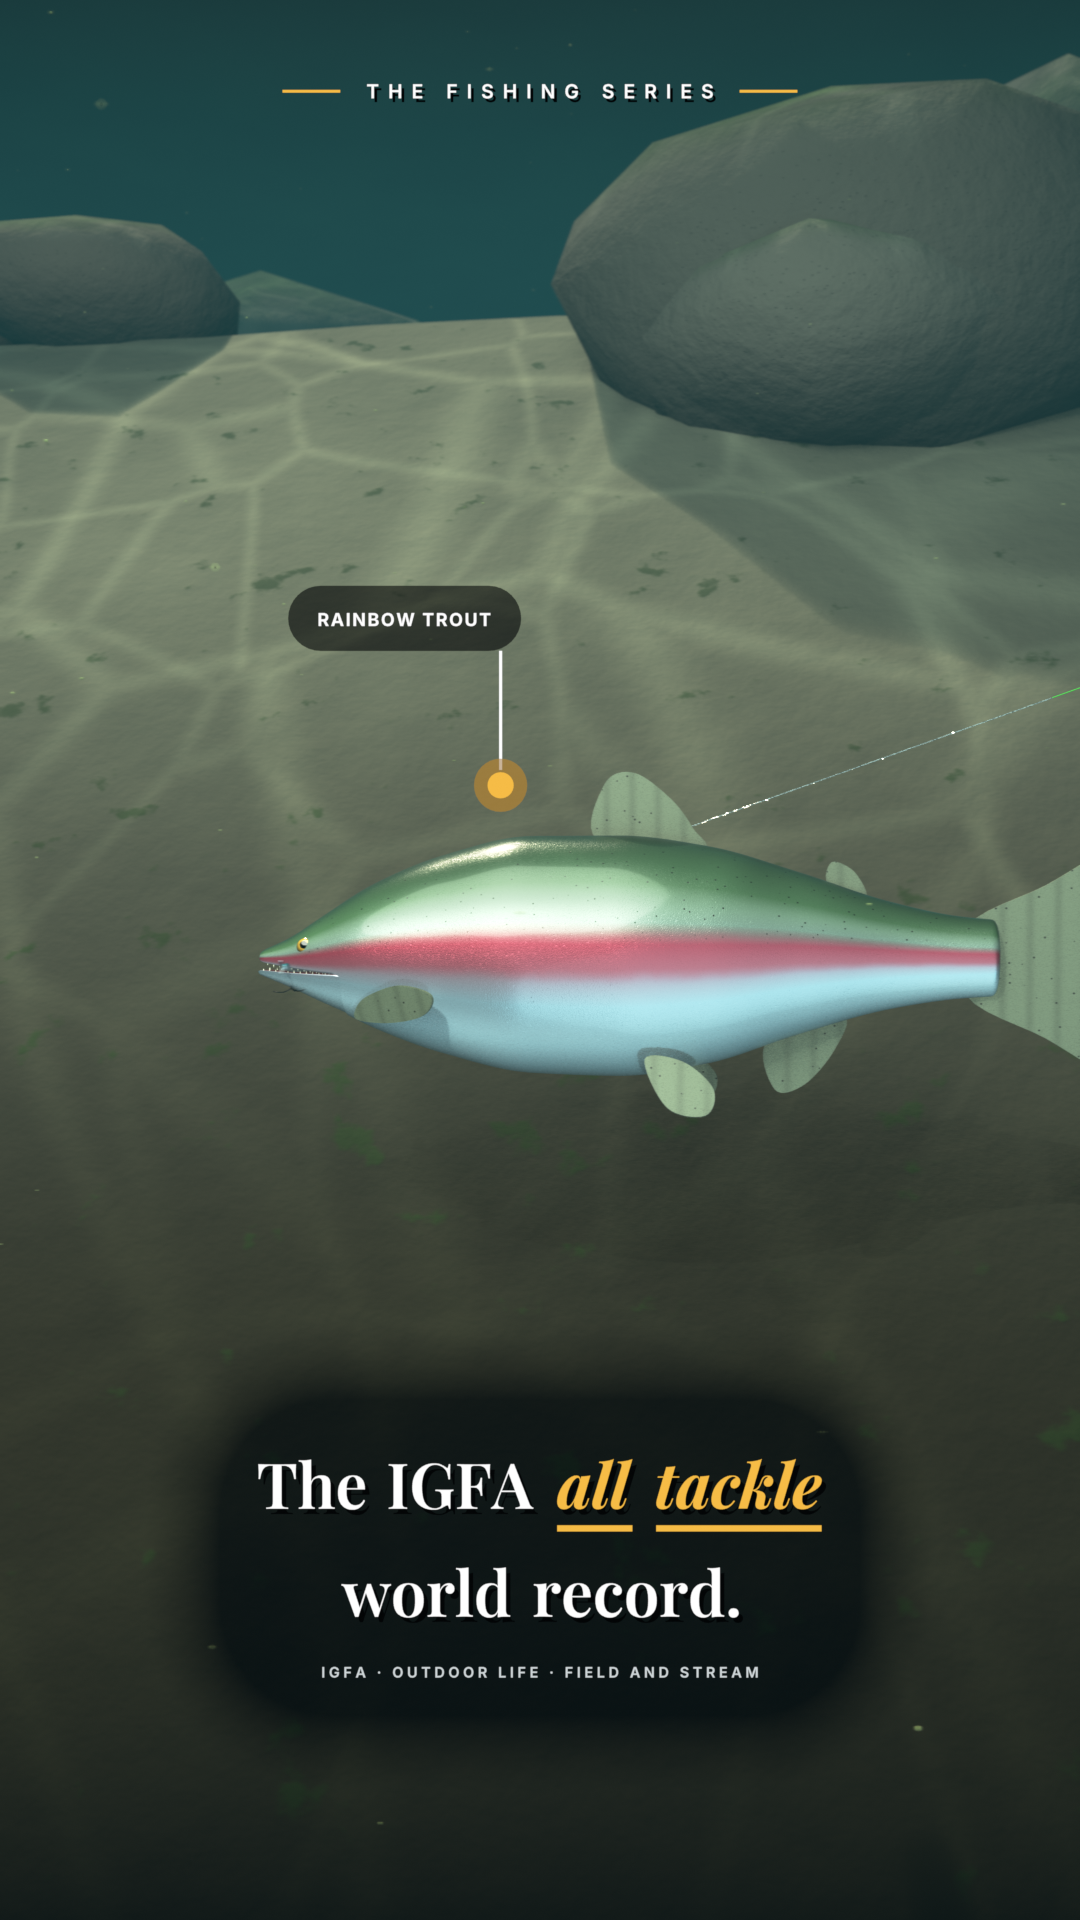
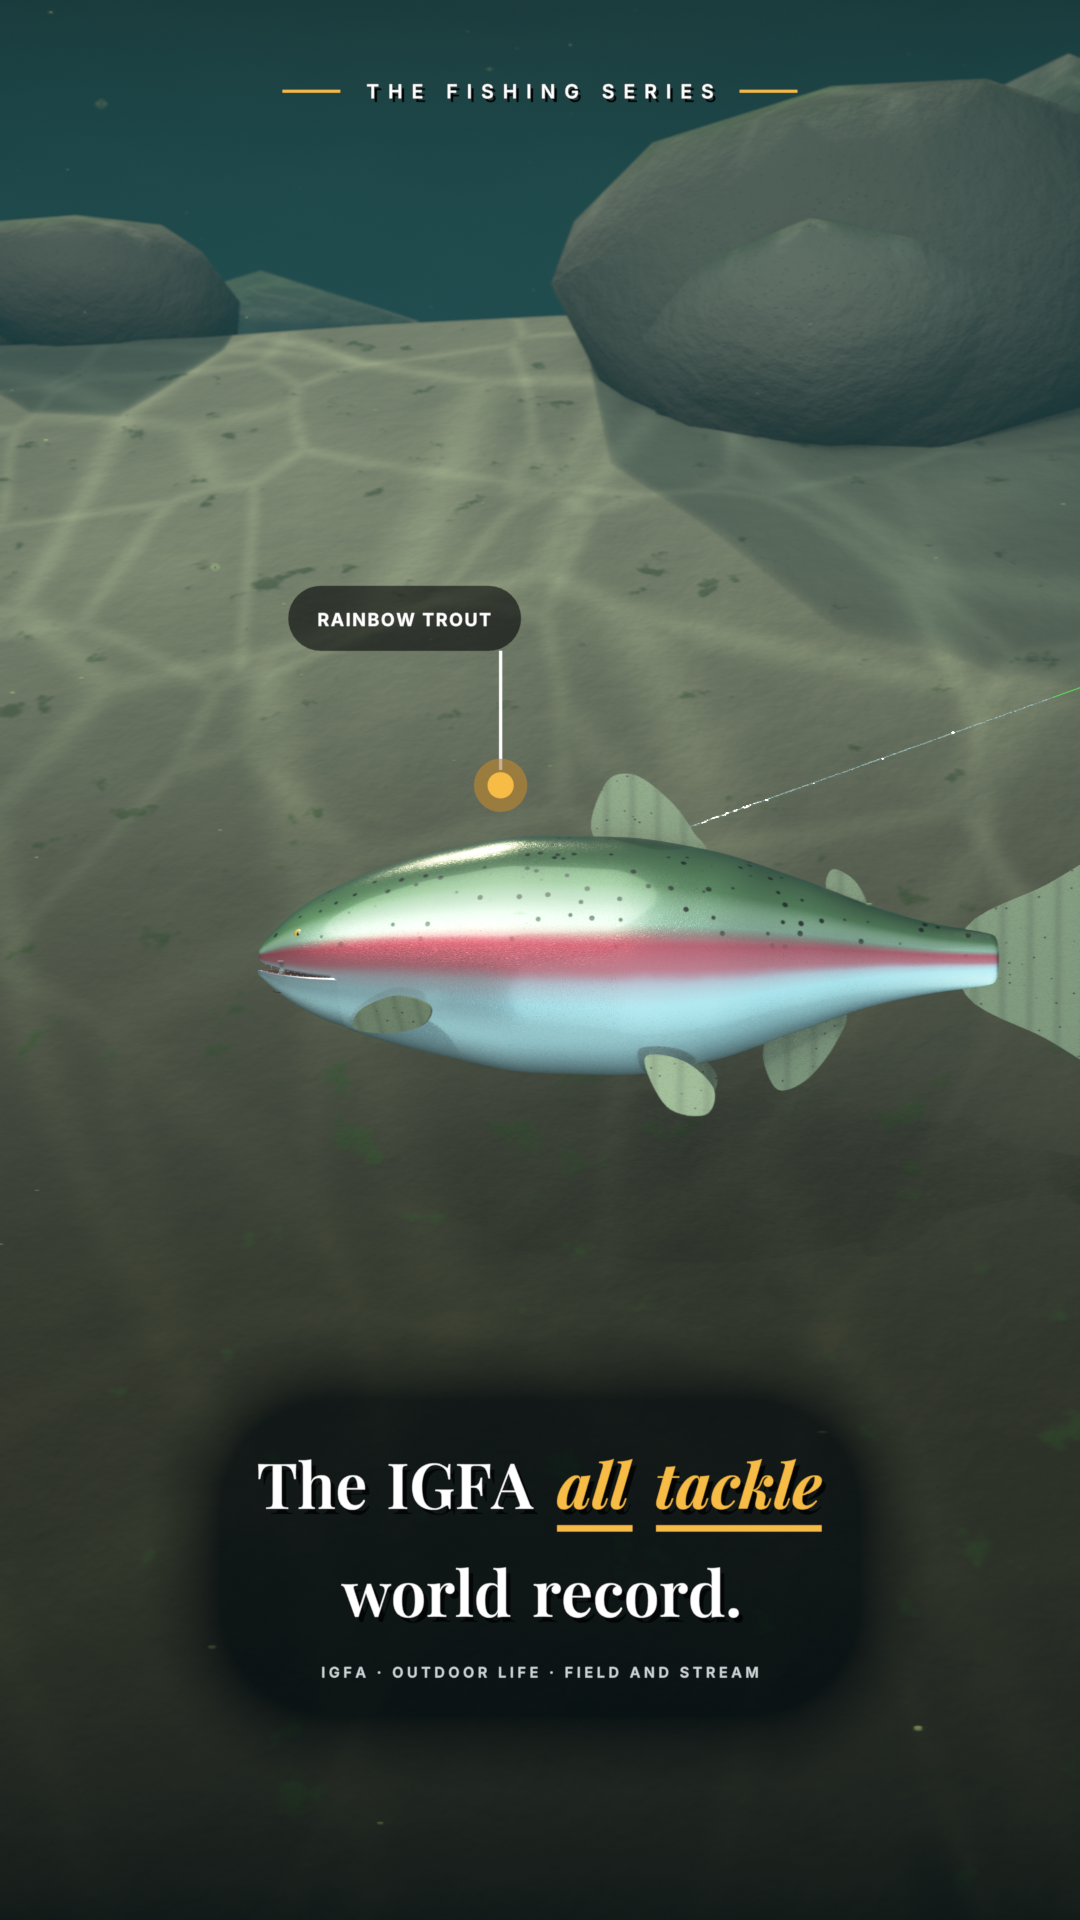
Trout film: thumbnail, updated test frames, contact sheet and render estimate
Claude-Session: https://claude.ai/code/session_01YbapJbwcQpaLkF81pJWNzJ

diff --git a/build_record_trout_masterclass/gpu_render/README.md b/build_record_trout_masterclass/gpu_render/README.md
@@ -71,16 +71,16 @@ full resolution, 32 samples, motion blur and depth of field on, two processes in
 per process while another frame renders alongside), took:
 
     frame   1: 137.6 s     (the trolled line over the lake from above, the loop join)
-    frame 240: 232.6 s     (the cross section: the trout side on along the rocky slope)
+    frame 240: 240.8 s     (the cross section: the trout side on along the rocky slope)
     frame 480:  85.9 s     (the crankbait on its turntable)
-    frame 720: 268.4 s     (the strike, low along the slope)
+    frame 720: 305.7 s     (the strike, low along the slope)
     frame 790:  64.8 s     (the rod bent over the side, the drag giving line)
     frame 987: 138.0 s     (the trolled line over the lake from above, the loop join)
 
-    sum 927.3 s / 6 frames = 154.55 s per frame per process (two processes running)
-    two processes finish 2 frames every 154.55 s: 154.55 / 2 = 77.27 s per frame
-    77.27 s x 987 frames = 76,270 s = about 21.2 hours with two processes
-    one process alone (two give about 1.7 times the throughput here): 21.2 h x 1.7 = about 36.0 hours
+    sum 972.8 s / 6 frames = 162.13 s per frame per process (two processes running)
+    two processes finish 2 frames every 162.13 s: 162.13 / 2 = 81.07 s per frame
+    81.07 s x 987 frames = 80,013 s = about 22.2 hours with two processes
+    one process alone (two give about 1.7 times the throughput here): 22.2 h x 1.7 = about 37.8 hours
 
 Six frames are a small sample (the hook strike and the troll shot were not among them), so the real total could
 differ. Either way it is far over the 10 hour limit, so the full quality render runs on your GPU instead. How long
